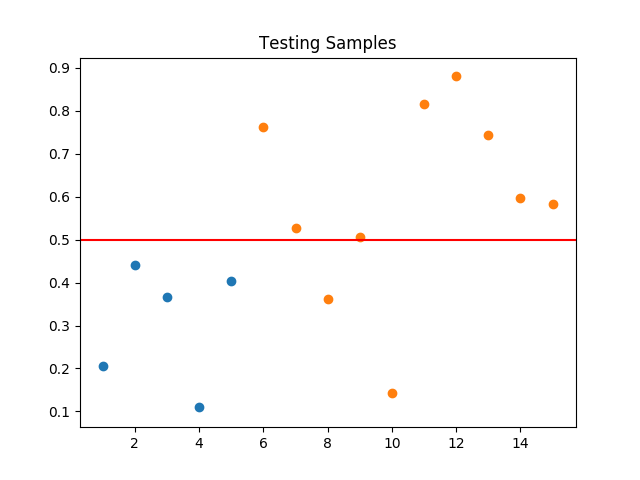
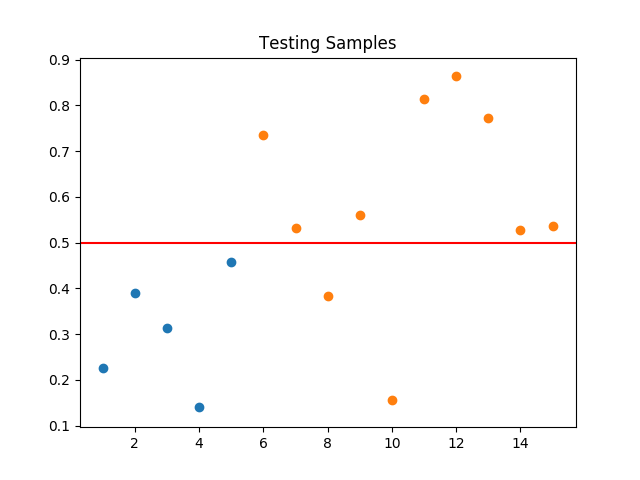
Add files via upload

diff --git a/ml_project.py b/ml_project.py
@@ -30,7 +30,7 @@ def g_x(theta,x):
 
 def cost(theta,x,y):
     m = len(training_x)
-    total_cost = -(1/m)*np.sum(y*np.log(sigmoid(g_x(theta,x)))+(1-y)*np.log(1-sigmoid(g_x(theta,x))))
+    total_cost =-(1/m)*np.sum(y*np.log(sigmoid(g_x(theta,x)))+(1-y)*np.log(1-sigmoid(g_x(theta,x))))
     return total_cost
 
 
@@ -42,9 +42,11 @@ def grad_desc(theta,x,y):
 def train(theta,x,y,iterations,learning_rate):
     print("Training model ...");
     cost_history = []
+    theta_history = []
     for i in range(iterations):
         theta -= learning_rate*grad_desc(theta,x,y)
         err = cost(theta,x,y)
+        theta_history.append(theta)
         cost_history.append(err)
     cost_history = np.array(cost_history)
     return theta,cost_history
@@ -61,14 +63,13 @@ def score(theta,x,y):
         if pred_y[i] != y[i]:
             error_count += 1
     return 1-float(error_count/len(y))
-
-
 iterations = 20000
 training_x = DATA[:75,:6]
 training_y = DATA[:75,6]
 testing_x = DATA[75:,:6]
 testing_y = DATA[75:,6]
-theta,cost_history = train(theta,training_x,training_y,iterations,0.0003)
+theta,cost_history = train(theta,training_x,training_y,iterations,0.0001)
+
 x = np.zeros((iterations,1))
 for i in range(iterations):
     x[i] = i+1
@@ -76,42 +77,20 @@ plt.title("Cost function")
 plt.plot(x,cost_history)
 plt.show()
 print("Testing Accuracy: ",score(theta,testing_x,testing_y))
-print("Training Accuracy: ",score(theta,training_x,training_y))
-zero = np.zeros((5,1))
-one = np.zeros((10,1))
-zero_i = 0
-one_i = 0
+zero = []
+one = []
 for i in range(len(testing_x)):
     if testing_y[i] == 0:
-        zero[zero_i,:] = sigmoid(g_x(theta,DATA[i+75,:6]))
-        zero_i += 1
+        zero.append(sigmoid(g_x(theta,testing_x[i,:])))
     else:
-        one[one_i,:] = sigmoid(g_x(theta,DATA[i+75,:6]))
-        one_i += 1
+        one.append(sigmoid(g_x(theta,testing_x[i,:])))
+zero = np.array(zero)
+one = np.array(one)
 plot_x = np.zeros((len(testing_x),1))
 for i in range(len(testing_x)):
     plot_x[i] = i+1
 plt.title("Testing Samples")
 plt.axhline(y=0.5,color="r",linestyle='-')
-plt.scatter(plot_x[:5],zero)
-plt.scatter(plot_x[5:],one)
-plt.show()
-zero_i = 0
-one_i = 0
-zero = np.zeros((37,1))
-one = np.zeros((38,1))
-plot_x = np.zeros((75,1))
-for i in range(len(training_x)):
-    if training_y[i] == 0:
-        zero[zero_i] = sigmoid(g_x(theta,training_x[i,:]))
-        zero_i +=1
-    else:
-        one[one_i] = sigmoid(g_x(theta,training_x[i,:]))
-        one_i +=1
-for i in range(len(training_x)):
-    plot_x[i] = i+1
-plt.title("Training Samples")
-plt.axhline(y=0.5,color='g',linestyle='-')
-plt.scatter(plot_x[:37],zero)
-plt.scatter(plot_x[37:],one)
+plt.scatter(plot_x[:len(zero)],zero)
+plt.scatter(plot_x[len(zero):],one)
 plt.show()
